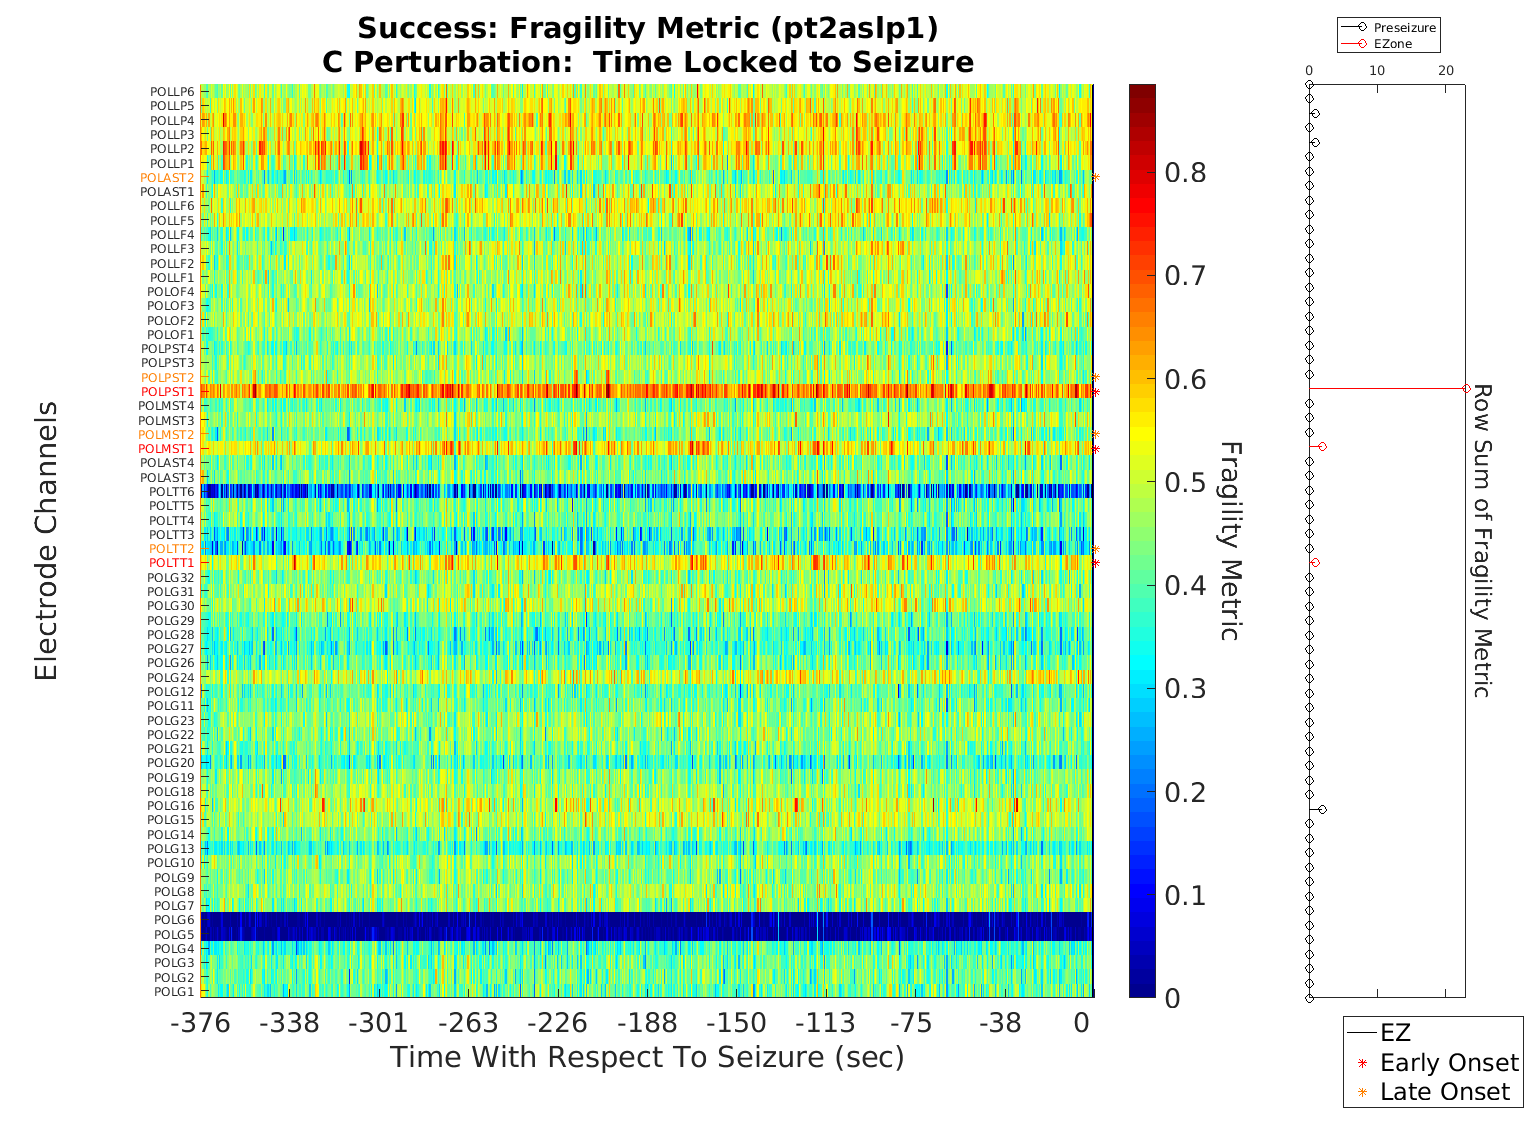
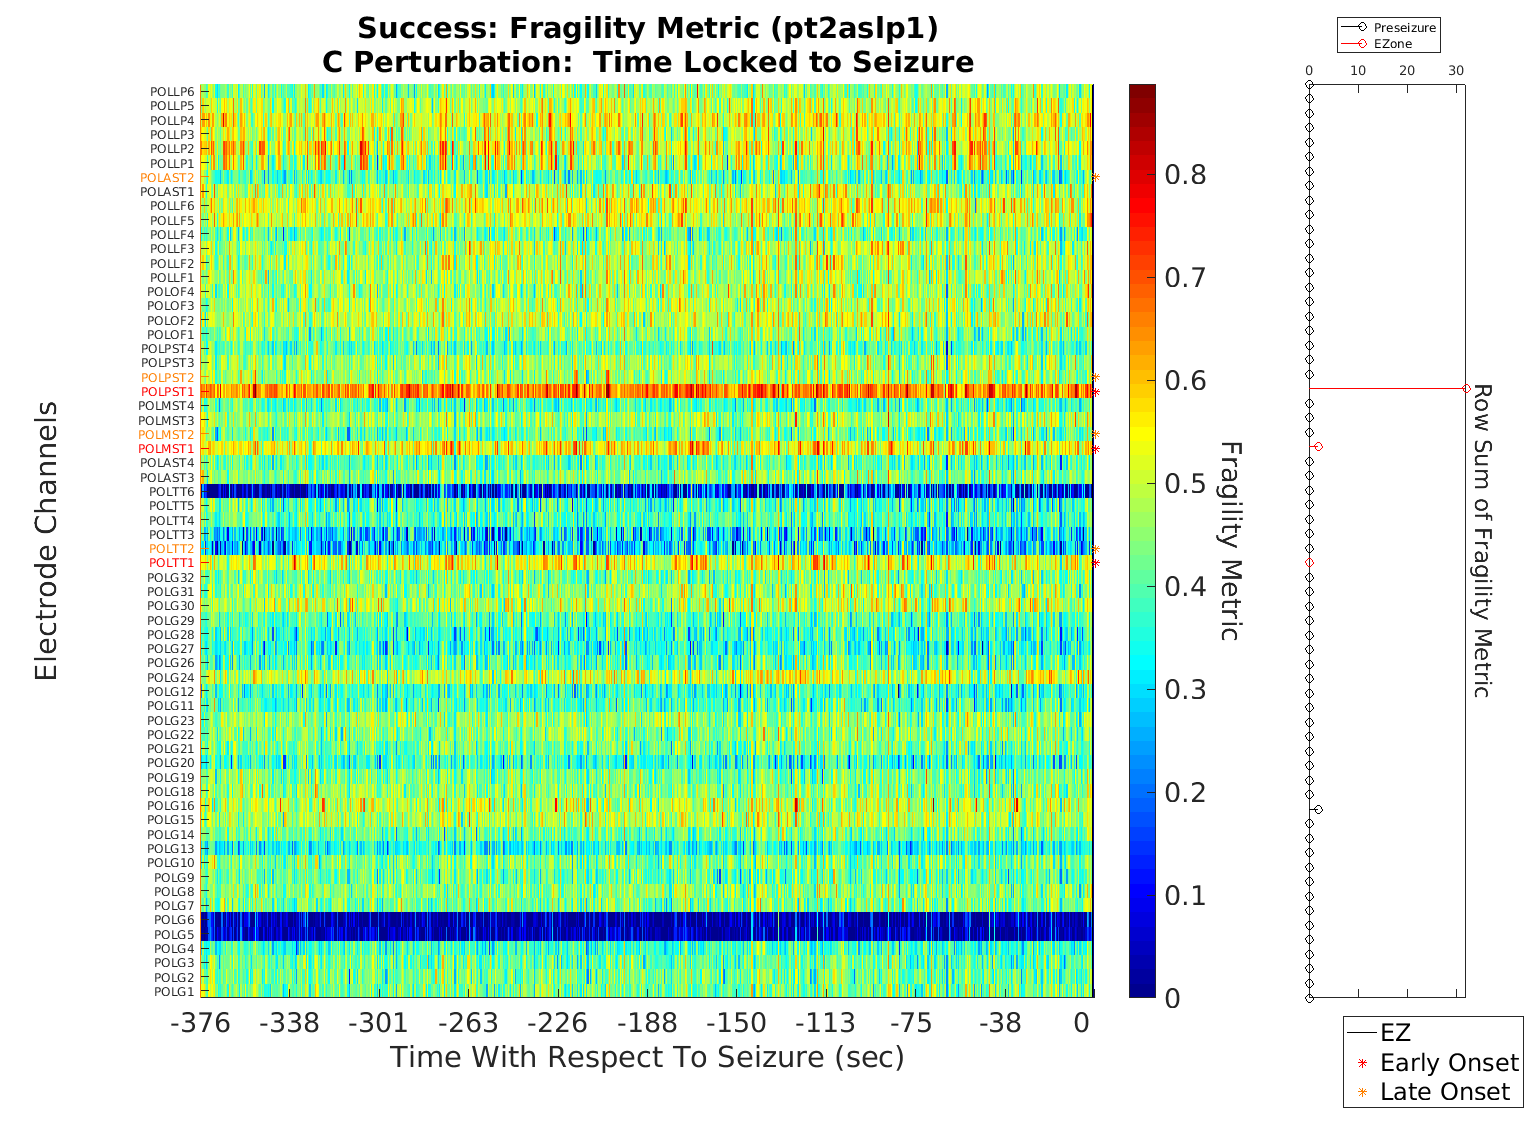
Adding filtering to the spectral computations.

Changed region(s): [[0.1225, 0.0624, 0.7349, 0.9054]]

diff --git a/fragility_dataanalysis/server/devVaryingWindows/preProcess/computeChannelSpectrum.m b/fragility_dataanalysis/server/devVaryingWindows/preProcess/computeChannelSpectrum.m
@@ -128,6 +128,29 @@ end
     leneeg = floor(length(eegWave) / fs) * fs;
     eegWave = eegWave(1:leneeg);
     
+    %- apply filtering on the eegWave
+    if FILTER_RAW == 1
+       % apply band notch filter to eeg data
+        eegWave = buttfilt(eegWave,[59.5 60.5], fs,'stop',1);
+        eegWave = buttfilt(eegWave,[119.5 120.5], fs,'stop',1);
+        if frequency_sampling >= 250
+            eegWave = buttfilt(eegWave,[179.5 180.5], fs,'stop',1);
+            eegWave = buttfilt(eegWave,[239.5 240.5], fs,'stop',1);
+            
+            if frequency_sampling >= 500
+                eegWave = buttfilt(eegWave,[299.5 300.5], fs,'stop',1);
+                eegWave = buttfilt(eegWave,[359.5 360.5], fs,'stop',1);
+                eegWave = buttfilt(eegWave,[419.5 420.5], fs,'stop',1);
+                eegWave = buttfilt(eegWave,[479.5 480.5], fs,'stop',1);
+            end
+        end
+    elseif FILTER_RAW == 2
+         % apply an adaptive filtering algorithm.
+        eegWave = removePLI(eegWave, fs, numHarmonics, [50,0.01,4], [0.1,2,4], 2, 60);
+    else 
+        disp('no filtering?');
+    end
+    
     [powerMat, phaseMat, freqs, t_sec] = computeSpectralPower(eegWave, fs, typeTransform, transformArgs);
     % squeeze channel dimension
     powerMat = squeeze(powerMat);

diff --git a/fragility_dataanalysis/server/serverRunPerturbationAlg.m b/fragility_dataanalysis/server/serverRunPerturbationAlg.m
@@ -70,6 +70,7 @@ function serverPerturbationScript(patient, radius, winSize, stepSize, frequency_
         winSize = adjmat_struct.winSize;
         stepSize = adjmat_struct.stepSize;
         frequency_sampling = adjmat_struct.frequency_sampling;
+        FILTER = adjmat_struct.FILTER;
 
         %- set meta data struct
         info.ezone_labels = ezone_labels;
@@ -82,7 +83,8 @@ function serverPerturbationScript(patient, radius, winSize, stepSize, frequency_
         info.winSize = winSize;
         info.stepSize = stepSize;
         info.frequency_sampling = frequency_sampling;
-
+        info.FILTER = FILTER;
+        
         % get the number of channels and time points
         num_channels = size(adjmat_struct.adjMats, 3);
         N = num_channels;

diff --git a/fragility_dataanalysis/runPlotsAndDOA.m b/fragility_dataanalysis/runPlotsAndDOA.m
@@ -6,8 +6,8 @@ patients = {,...,
 %     'pt2aw2', 'pt2aslp2',...
 %     'pt1aslp1',
 %     'pt1aslp2', ...
-%     'pt2aw1', 'pt2aw2', ...
-%     'pt2aslp1', 'pt2aslp2', ...
+    'pt2aw1', 'pt2aw2', ...
+    'pt2aslp1', 'pt2aslp2', ...
 %     'pt3aw1', ...
 %     'pt3aslp1', 'pt3aslp2', ...
 %     'pt1sz2', 'pt1sz3', 'pt1sz4',...
@@ -30,7 +30,7 @@ patients = {,...,
 %     'pt12sz1', 'pt12sz2', ...
 %     'pt13sz1', 'pt13sz2', 'pt13sz3', 'pt13sz5',...
 %     'pt14sz1' 'pt14sz2' 'pt14sz3'  'pt16sz1' 'pt16sz2' 'pt16sz3',...
-    'pt15sz1' 'pt15sz2' 'pt15sz4',...
+%     'pt15sz1' 'pt15sz2' 'pt15sz3' 'pt15sz4',...
 %     'pt16sz1' 'pt16sz2' 'pt16sz3',...
 %     'pt17sz1' 'pt17sz2',...
 %     'JH101sz1' 'JH101sz2' 'JH101sz3' 'JH101sz4',...
